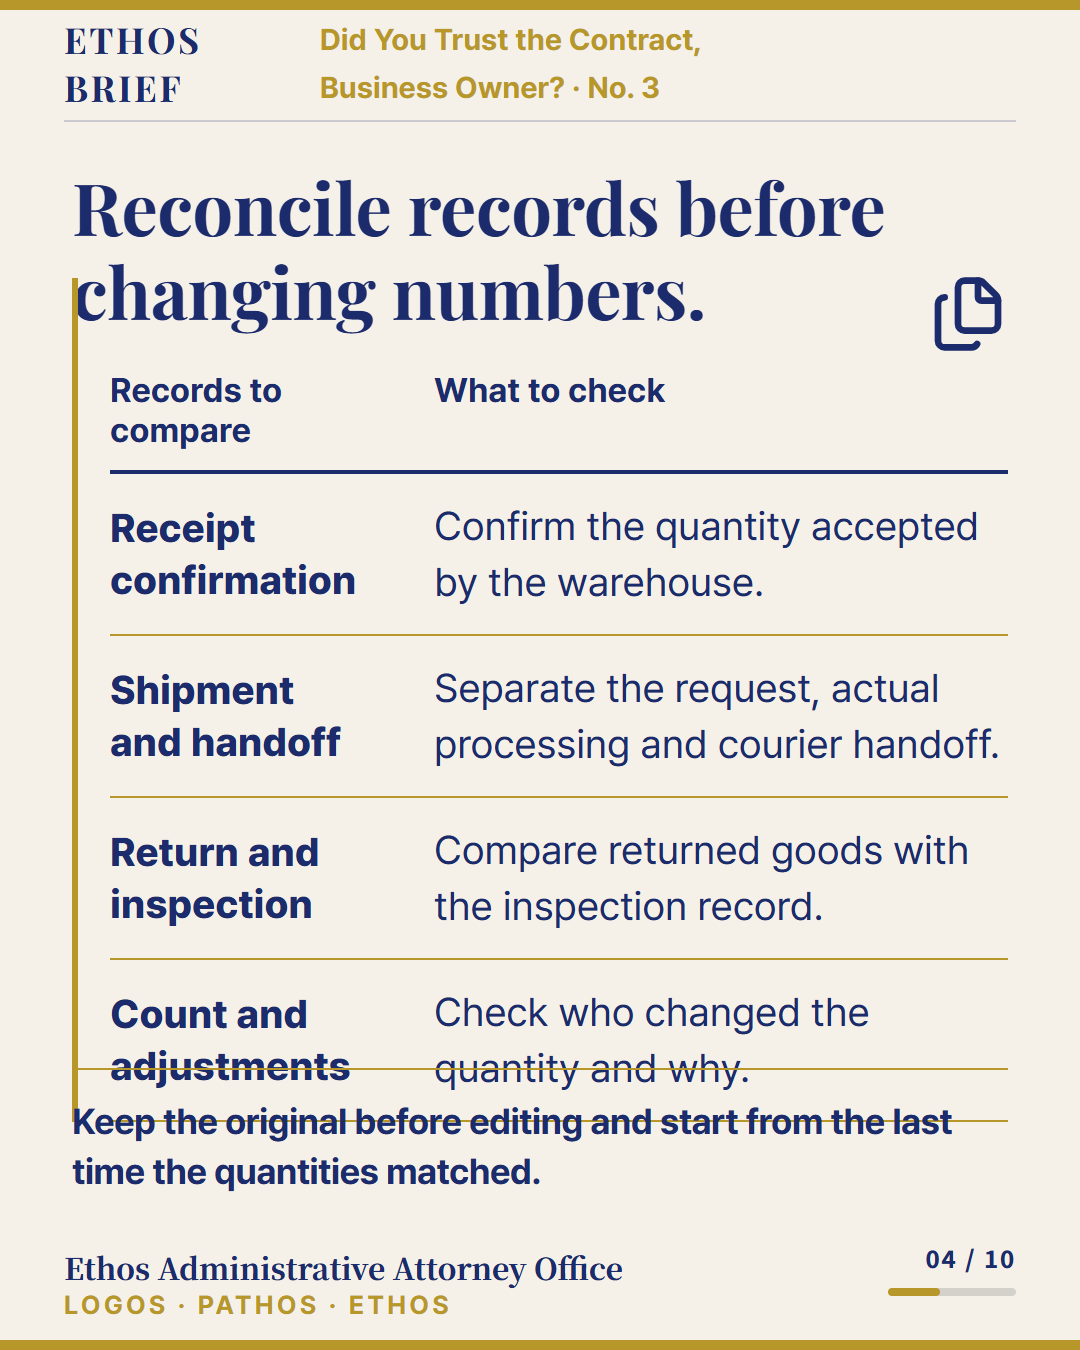
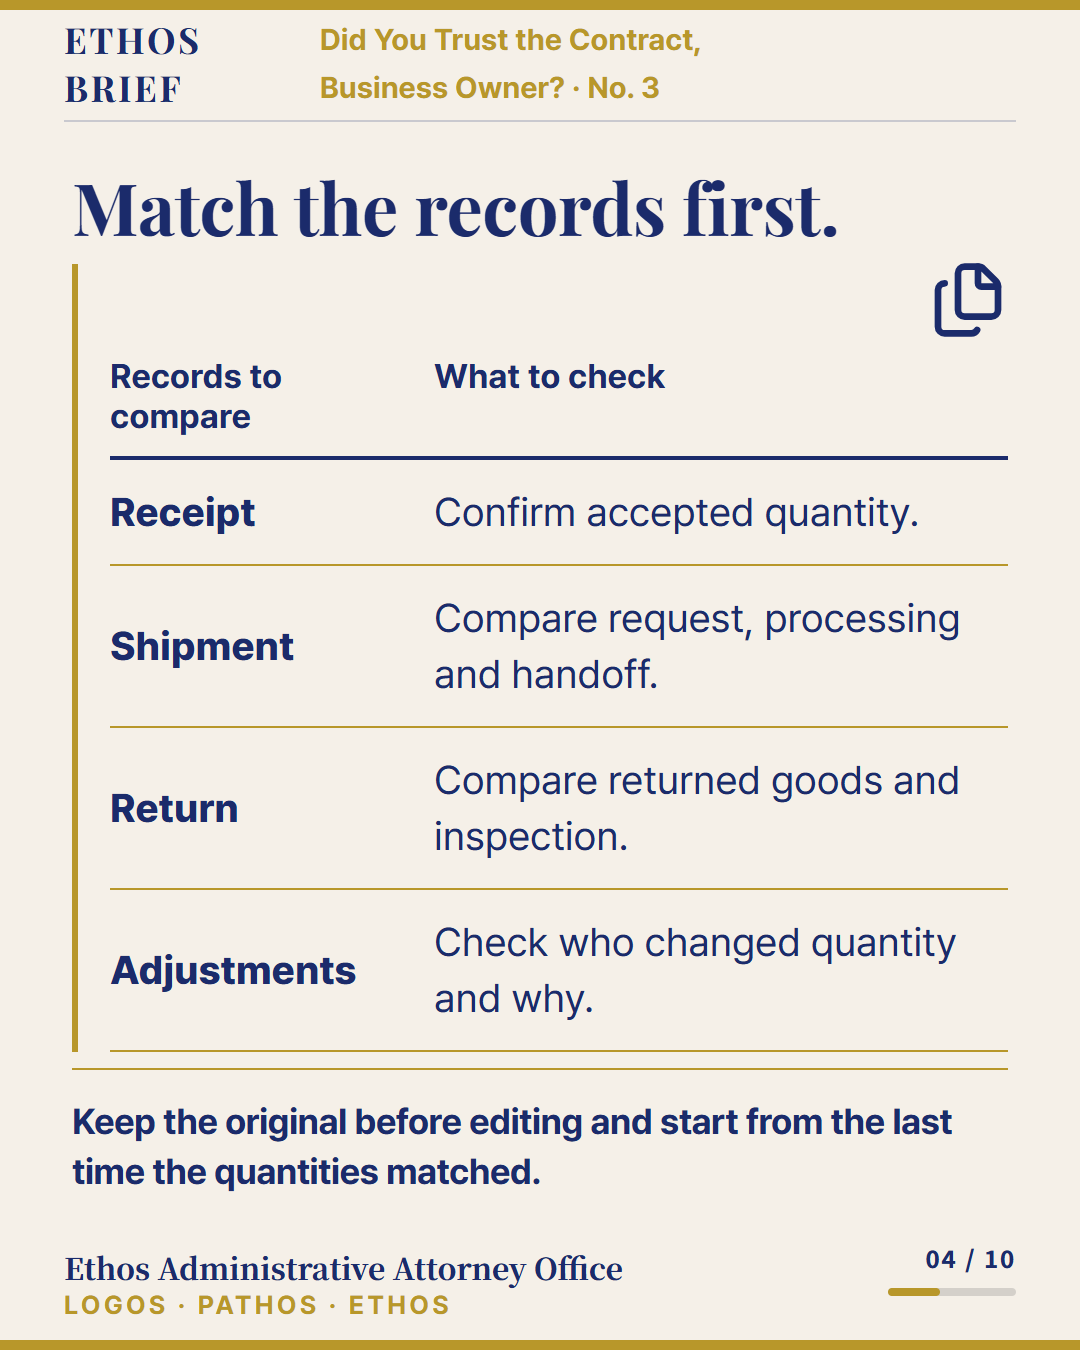
fix(cards): prevent overlap on English cards 4 7 10

diff --git a/content/CONTRACT-WAREHOUSE-INVENTORY-03-KO-CARDS/en/card_04.html b/content/CONTRACT-WAREHOUSE-INVENTORY-03-KO-CARDS/en/card_04.html
@@ -13,7 +13,7 @@
   <div class="hdr"><span class="wm" data-frame="wordmark">ETHOS BRIEF</span><span class="sec" data-frame="section">Did You Trust the Contract, Business Owner? · No. 3</span></div>
   <div class="hl" data-frame="line"></div>
   <div class="body">
-    <div class="z-title" data-zone="title"><h2 class="h2" data-role="headline">Reconcile records before changing numbers.</h2></div>
+    <div class="z-title" data-zone="title"><h2 class="h2" data-role="headline">Match the records first.</h2></div>
 <div class="z-main" data-zone="main"><div class="records" data-focal="records"><div class="record-symbol"><svg
   xmlns="http://www.w3.org/2000/svg"
   width="24"
@@ -29,7 +29,7 @@
   <path d="M16.706 2.706A2.4 2.4 0 0 0 15 2v5a1 1 0 0 0 1 1h5a2.4 2.4 0 0 0-.706-1.706z" />
   <path d="M5 7a2 2 0 0 0-2 2v11a2 2 0 0 0 2 2h8a2 2 0 0 0 1.732-1" />
 </svg>
-</div><div class="record-head"><b>Records to compare</b><b>What to check</b></div><div class="record-row"><h3>Receipt confirmation</h3><p>Confirm the quantity accepted by the warehouse.</p></div><div class="record-row"><h3>Shipment and handoff</h3><p>Separate the request, actual processing and courier handoff.</p></div><div class="record-row"><h3>Return and inspection</h3><p>Compare returned goods with the inspection record.</p></div><div class="record-row"><h3>Count and adjustments</h3><p>Check who changed the quantity and why.</p></div></div></div>
+</div><div class="record-head"><b>Records to compare</b><b>What to check</b></div><div class="record-row"><h3>Receipt</h3><p>Confirm accepted quantity.</p></div><div class="record-row"><h3>Shipment</h3><p>Compare request, processing and handoff.</p></div><div class="record-row"><h3>Return</h3><p>Compare returned goods and inspection.</p></div><div class="record-row"><h3>Adjustments</h3><p>Check who changed quantity and why.</p></div></div></div>
 <div class="z-take" data-zone="take"><div class="close" data-role="takeaway">Keep the original before editing and start from the last time the quantities matched.</div></div>
   </div>
   <div class="ftr"><div class="org" data-frame="org">Ethos Administrative Attorney Office</div><div class="tagl" data-frame="tagline">LOGOS · PATHOS · ETHOS</div><div class="pg" data-frame="page" aria-hidden="true" data-progress="04 / 10"></div></div>

diff --git a/content/CONTRACT-WAREHOUSE-INVENTORY-03-KO-CARDS/en/card_07.html b/content/CONTRACT-WAREHOUSE-INVENTORY-03-KO-CARDS/en/card_07.html
@@ -13,8 +13,8 @@
   <div class="hdr"><span class="wm" data-frame="wordmark">ETHOS BRIEF</span><span class="sec" data-frame="section">Did You Trust the Contract, Business Owner? · No. 3</span></div>
   <div class="hl" data-frame="line"></div>
   <div class="body">
-    <div class="z-title" data-zone="title"><h2 class="h2" data-role="headline">Liability depends on the goods and contract.</h2></div>
-<div class="z-main" data-zone="main"><div class="liability" data-focal><section><h3>Applicable relationship</h3><p>First determine whether this is a warehouse-business relationship involving storage for another person.</p></section><section><h3>Incident during storage</h3><p>The entrusted goods must be found lost or damaged.</p></section><section><h3>Proof of due care</h3><p>The warehouse operator cannot avoid liability unless the operator or its employee proves that due care was exercised in storage.</p></section></div></div>
+    <div class="z-title" data-zone="title"><h2 class="h2" data-role="headline">When can the warehouse be liable?</h2></div>
+<div class="z-main" data-zone="main"><div class="liability" data-focal><section><h3>Storage</h3><p>Goods are held for another party.</p></section><section><h3>Loss or damage</h3><p>The entrusted goods are lost or damaged.</p></section><section><h3>Due care</h3><p>The operator must prove due care.</p></section></div></div>
 <div class="z-take" data-zone="take"><div class="take" data-role="takeaway">First confirm the entrusted quantity, acceptance and shipment records, and goods that cannot be returned.</div></div>
   </div>
   <div class="ftr"><div class="org" data-frame="org">Ethos Administrative Attorney Office</div><div class="tagl" data-frame="tagline">LOGOS · PATHOS · ETHOS</div><div class="pg" data-frame="page" aria-hidden="true" data-progress="07 / 10"></div></div>

diff --git a/content/CONTRACT-WAREHOUSE-INVENTORY-03-KO-CARDS/en/card_10.html b/content/CONTRACT-WAREHOUSE-INVENTORY-03-KO-CARDS/en/card_10.html
@@ -13,8 +13,8 @@
   <div class="hdr"><span class="wm" data-frame="wordmark">ETHOS BRIEF</span><span class="sec" data-frame="section">Did You Trust the Contract, Business Owner? · No. 3</span></div>
   <div class="hl" data-frame="line"></div>
   <div class="body">
-    <div class="z-title" data-zone="title"><h2 class="h2" data-role="headline">Review the contract and records together.</h2></div>
-<div class="z-main" data-zone="main"><div class="handoff" data-focal><section><h3>Prepare directly</h3><p>Prepare the logistics-service contract, receipt and shipment records, return and adjustment records, and the latest count sheet. Start by matching …</p></section><section><h3>Document work</h3><p>This work reflects agreed receipt-confirmation standards, shipment approvals, and count and adjustment procedures in contract documents. Damages di…</p></section></div></div>
+    <div class="z-title" data-zone="title"><h2 class="h2" data-role="headline">Prepare the contract and records.</h2></div>
+<div class="z-main" data-zone="main"><div class="handoff" data-focal><section><h3>Bring</h3><p>Contract, receipt, shipment, return and count records.</p></section><section><h3>Review</h3><p>Set receipt, approval and count rules. An attorney may need to review damages or limitation.</p></section></div></div>
 <div class="z-take" data-zone="take"><div class="take" data-role="takeaway">A free preliminary review can identify which records to compare and which standards are missing from the contract.</div></div>
   </div>
   <div class="ftr"><div class="org" data-frame="org">Ethos Administrative Attorney Office</div><div class="tagl" data-frame="tagline">LOGOS · PATHOS · ETHOS</div><div class="pg" data-frame="page" aria-hidden="true" data-progress="10 / 10"></div></div>

diff --git a/content/CONTRACT-WAREHOUSE-INVENTORY-03-KO-CARDS/out/en/qa-report.md b/content/CONTRACT-WAREHOUSE-INVENTORY-03-KO-CARDS/out/en/qa-report.md
@@ -7,13 +7,13 @@
 | card_01.html | cover | 157 | 28 | 0.99 | 26 | FAIL |
 | card_02.html | checklist | 253 | 41 | 0.79 | 26 | FAIL |
 | card_03.html | comparison | 344 | 66 | 0.91 | 26 | FAIL |
-| card_04.html | table | 383 | 65 | 1.15 | 26 | FAIL |
+| card_04.html | table | 276 | 47 | 0.96 | 26 | FAIL |
 | card_05.html | comparison | 356 | 59 | 0.95 | 26 | FAIL |
 | card_06.html | concept | 307 | 59 | 0.81 | 26 | FAIL |
-| card_07.html | concept | 428 | 73 | 1.26 | 26 | FAIL |
+| card_07.html | concept | 235 | 46 | 0.63 | 26 | FAIL |
 | card_08.html | quote | 217 | 35 | 0.5 | 26 | FAIL |
 | card_09.html | quote | 267 | 43 | 0.73 | 26 | FAIL |
-| card_10.html | cta | 419 | 67 | 1.08 | 26 | FAIL |
+| card_10.html | cta | 263 | 47 | 0.8 | 26 | FAIL |
 
 ### card_01.html
 - frame-drift wordmark.top: 8.0 != 20
@@ -32,13 +32,8 @@
 - words 66 > 권고 60 (영문 호흡과 모바일 가독성 확인)
 
 ### card_04.html
-- zone-overflow:main
 - frame-drift wordmark.top: 8.0 != 20
 - frame-drift section.top: 8.0 != 20
-
-### card_04.html 권고
-- chars 383 > 권고 340 (문장 압축 또는 카드 분리 검토)
-- words 65 > 권고 60 (영문 호흡과 모바일 가독성 확인)
 
 ### card_05.html
 - frame-drift wordmark.top: 8.0 != 20
@@ -52,13 +47,8 @@
 - frame-drift section.top: 8.0 != 20
 
 ### card_07.html
-- zone-overflow:main
 - frame-drift wordmark.top: 8.0 != 20
 - frame-drift section.top: 8.0 != 20
-
-### card_07.html 권고
-- chars 428 > 강한 경고 340 (문장 압축 또는 카드 분리 검토)
-- words 73 > 강한 경고 60 (영문 호흡과 모바일 가독성 확인)
 
 ### card_08.html
 - frame-drift wordmark.top: 8.0 != 20
@@ -69,13 +59,8 @@
 - frame-drift section.top: 8.0 != 20
 
 ### card_10.html
-- zone-overflow:main
 - frame-drift wordmark.top: 8.0 != 20
 - frame-drift section.top: 8.0 != 20
-
-### card_10.html 권고
-- chars 419 > 권고 340 (문장 압축 또는 카드 분리 검토)
-- words 67 > 권고 60 (영문 호흡과 모바일 가독성 확인)
 
 ## 사람이 확인할 것 (자동화 불가)
 - [ ] 법령·판례 해석이 원문과 일치하는가 (변호사·행정사 최종 확인)
